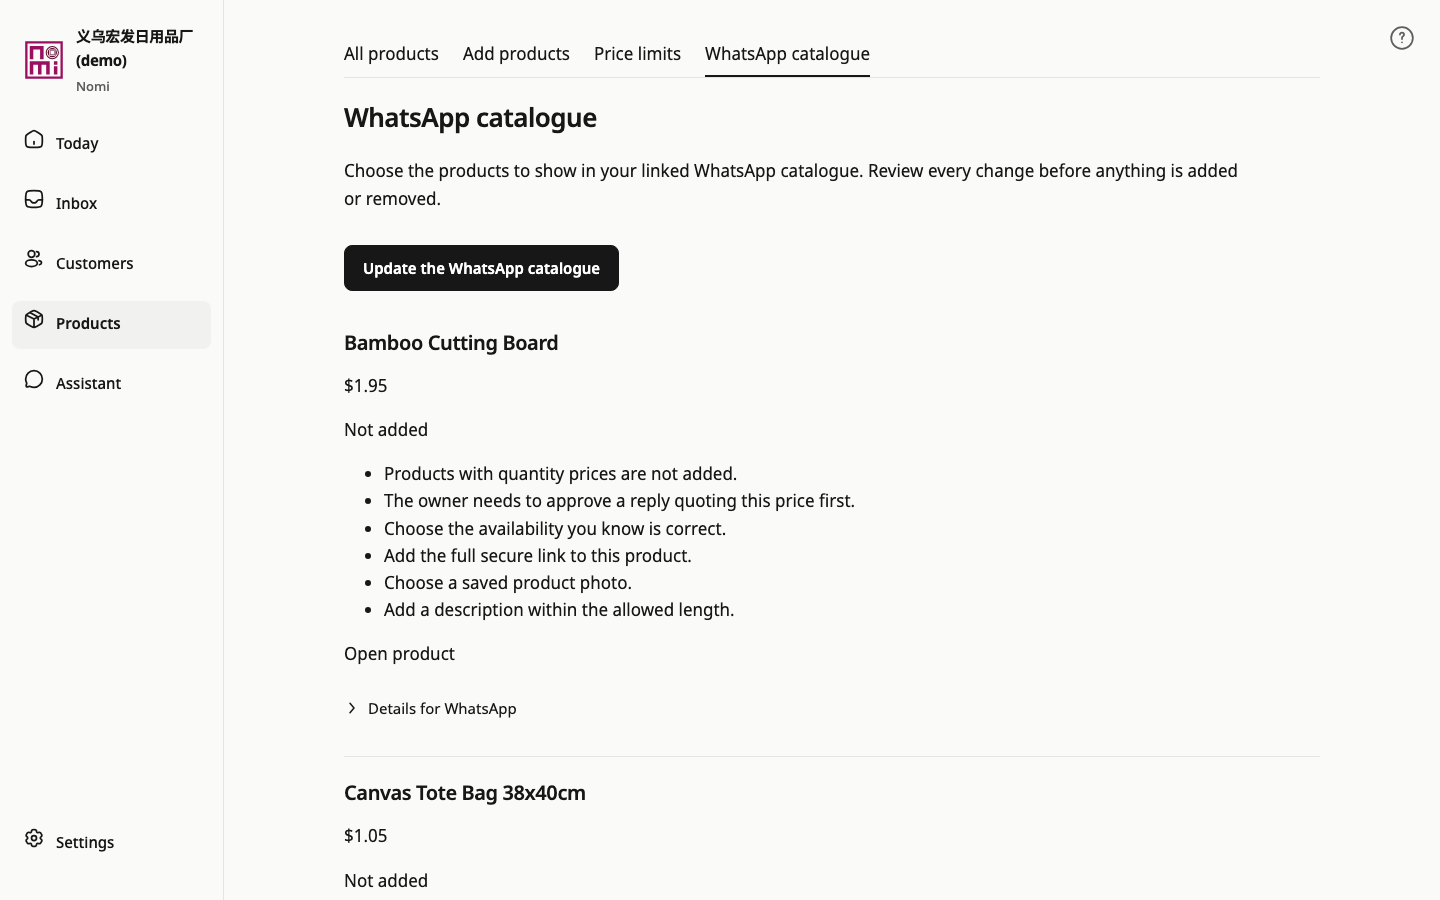
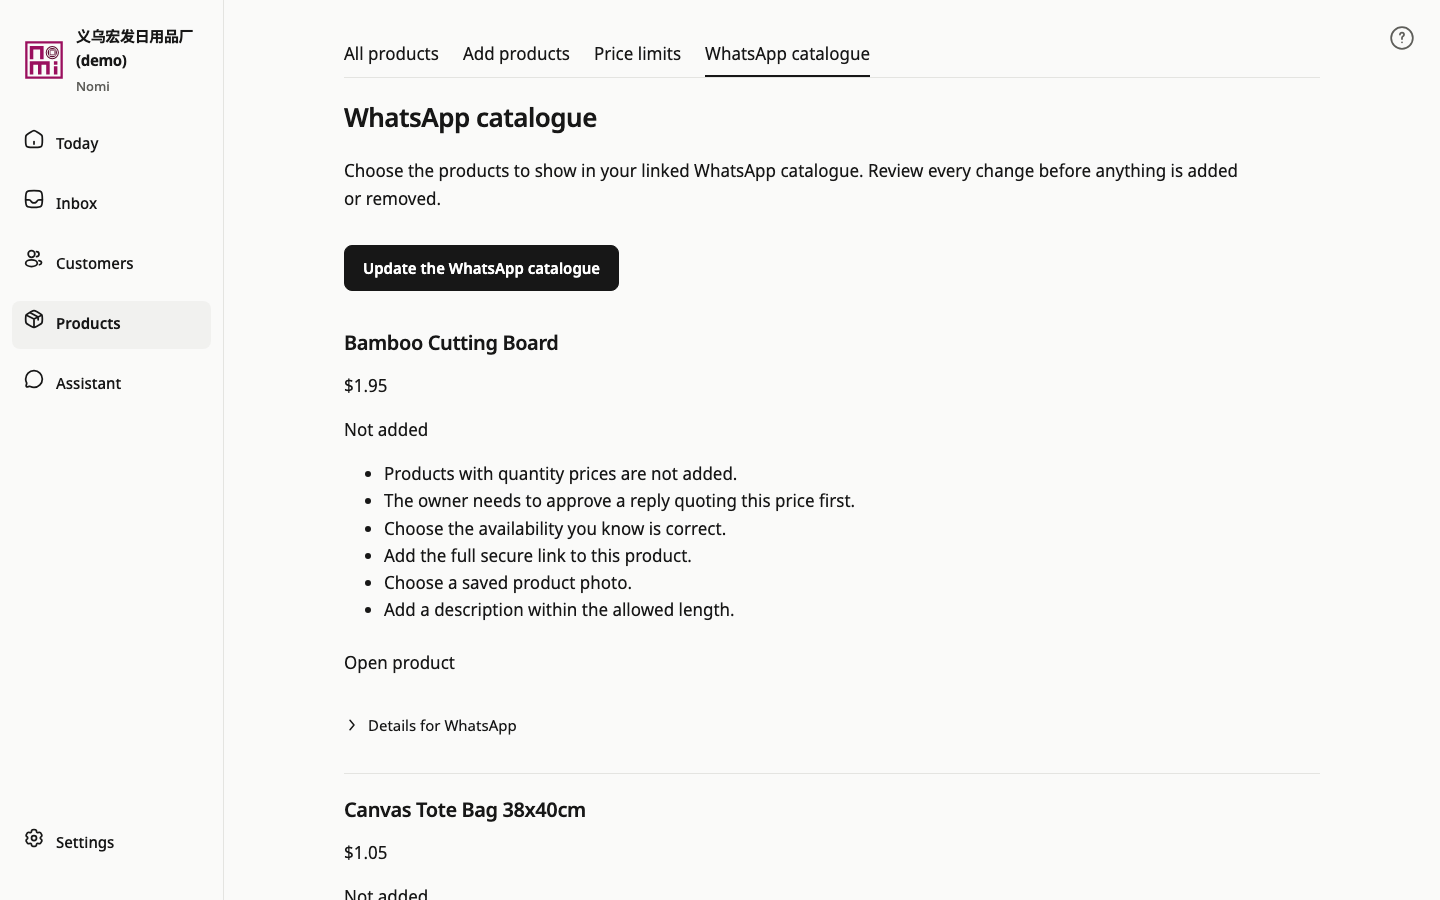
UI correction, Block 4 fix1: the WhatsApp catalogue's product links are 44 px targets
The catalogue's "Open product" link stood alone on its line at 23 px (36 in Arabic), the same at main; found when
fix1's sweep took in the catalogue (it was never in Block 4's). Its own stylesheet now gives each item's product
link a 44 px height. Catalogue re-swept (5 languages x 1440, 200 %, 390, 320 x owner and staff): every check 0;
nothing lost against main. The English label stays (lang="en" on purpose); logged as open. Evidence updated.

Changed region(s): [[0.2188, 0.8711, 0.4062, 1.0], [0.25, 0.7778, 0.375, 0.8089], [0.2188, 0.7156, 0.3125, 0.7467]]

diff --git a/src/api/web/waCatalogueStyle.ts b/src/api/web/waCatalogueStyle.ts
@@ -13,4 +13,6 @@ export const WA_CATALOGUE_CSS=String.raw`
 [dir="rtl"] .wa-catalogue .wc-words:dir(ltr),[dir="rtl"] .wc-check bdi:dir(ltr),
 [dir="ltr"] .wc-check bdi:dir(rtl){text-align:end;}
 .wa-catalogue form>.btn{margin-block:var(--space-16);}
+/* Block 4 fix1: each item's link to its product is a 44 px target (it stands alone on its line). */
+.wc-item>p>a[href]{display:inline-flex;align-items:center;min-height:44px;}
 `;

diff --git a/docs/design/ui-correction/block4-fix1/README.md b/docs/design/ui-correction/block4-fix1/README.md
@@ -1,6 +1,6 @@
 # Block 4 fix1 — price and floor on the first screen at 200 %
 
-Base: `ee30979e` (main after #473). Fix: `c2633226` on `ui-block4-fix1`. All data is the synthetic demo workspace.
+Base: `ee30979e` (main after #473). Fix: `c2633226` (product page) and the catalogue's link targets, on `ui-block4-fix1`. All data is the synthetic demo workspace.
 
 **The owner's decision (2026-11-18):** at 200 % of 1440×900 the product page's price and lowest price must be on the
 first screen in every language. Measured strictly here: a figure counts only if its whole block (label, figure and
@@ -35,15 +35,21 @@ No type size changed, nothing hidden, nothing specific to a language. The tabs a
   **40/40**; a fixture whose name (and Chinese name) takes two lines at 200 % 20/40 → **40/40**. Staff see no
   lowest price, as before. Rows for 200 % and 320 below.
 - **Matched screenshots:** 151 before (`before/`, main's build) and 151 after (`after/`), same names; every after image
-  was looked at whole. [Measurements](measurements.md): 147 shots, all 200, no horizontal overflow, **none taller**
-  than before.
+  was looked at whole. [Measurements](measurements.md): 147 shots, all 200, no horizontal overflow; none taller
+  than before except the catalogue (its links' 44 px, below).
 - **Nothing lost:** forms, fields, buttons and links of 10 product-area pages (the catalogue included), owner and
   staff, against main: 20/20 identical.
 - **Guarantees** (44 px targets, overflow, contrast, rule 38, reduced motion, under the bar): 15 product-area pages
   (the catalogue and the fixture included) × 5 languages × 1440, 200 %, 390, 320 × owner and staff = 600 views: 0
   non-200, 0 overflow, 0 low contrast, 0 rule 38, 0 motion, 0 under the bar. **Small targets: 520, all on the
   WhatsApp catalogue page**, its "Open product" links (23 px; 36 in Arabic) — the same at main (unchanged by this
-  fix; that page was not in Block 4's sweep). Reported as an open finding, not waived.
+  fix; that page was not in Block 4's sweep).
+- **Fixed on this branch (t1r's ruling (a)):** the catalogue's own stylesheet gives each item's product link a 44 px
+  height (`.wc-item>p>a[href]`). Catalogue re-swept, 5 languages × 1440, 200 %, 390, 320 × owner and staff = 40 views:
+  every check 0, small targets included. Nothing lost against main: 20/20 identical. The catalogue page is about 200 px
+  taller (1440: 6214 → 6416), its 13 links each 21 px taller — the cost of the 44 px rule.
+- **Open, left as it is:** "Open product" (and the rest of the catalogue's words) is English on every language's page;
+  the code marks it `lang="en"` on purpose.
 
 The fixture (`Organic Cotton Canvas Tote Bag with Inner Zip Pocket 38x40cm`, Chinese name
 有机棉帆布手提袋，内侧带拉链口袋，三十八乘四十厘米, price 1.25, lowest price 0.95) was added through the app's own add page,

diff --git a/docs/design/ui-correction/block4-fix1/measurements.md b/docs/design/ui-correction/block4-fix1/measurements.md
@@ -10,12 +10,12 @@ Status, document height and horizontal overflow, before (main `ee30979e`) → af
 | add-es-zoom200 | 200 → 200 | 1218 → 1178 | 0 → 0 |
 | add-fr-1440 | 200 → 200 | 1087 → 1071 | 0 → 0 |
 | add-fr-zoom200 | 200 → 200 | 1245 → 1205 | 0 → 0 |
-| catalogue-en-1440 | 200 → 200 | 6214 → 6198 | 0 → 0 |
-| catalogue-en-zoom200 | 200 → 200 | 6294 → 6278 | 0 → 0 |
-| catalogue-es-1440 | 200 → 200 | 6214 → 6198 | 0 → 0 |
-| catalogue-es-zoom200 | 200 → 200 | 6372 → 6332 | 0 → 0 |
-| catalogue-fr-1440 | 200 → 200 | 6214 → 6198 | 0 → 0 |
-| catalogue-fr-zoom200 | 200 → 200 | 6372 → 6332 | 0 → 0 |
+| catalogue-en-1440 | 200 → 200 | 6214 → 6416 | 0 → 0 |
+| catalogue-en-zoom200 | 200 → 200 | 6294 → 6497 | 0 → 0 |
+| catalogue-es-1440 | 200 → 200 | 6214 → 6416 | 0 → 0 |
+| catalogue-es-zoom200 | 200 → 200 | 6372 → 6550 | 0 → 0 |
+| catalogue-fr-1440 | 200 → 200 | 6214 → 6416 | 0 → 0 |
+| catalogue-fr-zoom200 | 200 → 200 | 6372 → 6550 | 0 → 0 |
 | columns-en-1440 | 200 → 200 | 921 → 905 | 0 → 0 |
 | columns-en-zoom200 | 200 → 200 | 1321 → 1305 | 0 → 0 |
 | columns-es-1440 | 200 → 200 | 948 → 932 | 0 → 0 |
